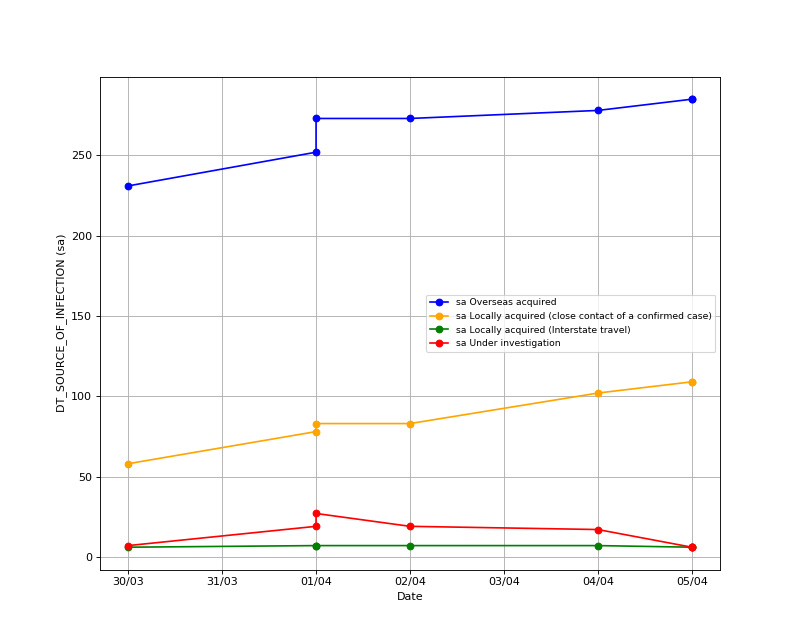
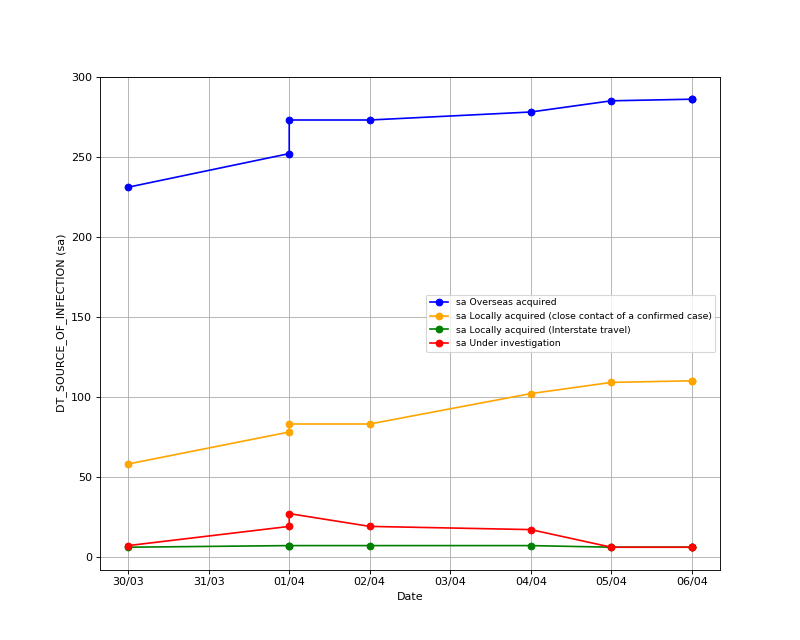
combined status constants for various files into DT_PATIENT_STATUS+updated graphs

diff --git a/state_news_releases/VicNews.py b/state_news_releases/VicNews.py
@@ -8,7 +8,7 @@ from covid_19_au_grab.state_news_releases.constants import \
     DT_CASES_BY_REGION, DT_NEW_CASES_BY_REGION, \
     DT_MALE, DT_FEMALE, \
     DT_SOURCE_OF_INFECTION, \
-    DT_DEATHS, DT_HOSPITALIZED, DT_ICU, DT_RECOVERED
+    DT_PATIENT_STATUS
 from covid_19_au_grab.state_news_releases.data_containers.DataPoint import \
     DataPoint
 from covid_19_au_grab.state_news_releases.vic_powerbi import \
@@ -284,8 +284,9 @@ class VicNews(StateNewsBase):
         deaths = self._extract_number_using_regex(
             compile('([0-9,]+) (?:deaths|people have(?: already)? died)'),
             c_html,
+            name='Deaths',
             source_url=href,
-            datatype=DT_DEATHS,
+            datatype=DT_PATIENT_STATUS,
             date_updated=self._get_date(href, html)
         )
         if deaths:
@@ -294,8 +295,9 @@ class VicNews(StateNewsBase):
         in_hospital = self._extract_number_using_regex(
             compile('([0-9,]+) people are in hospital'),
             c_html,
+            name='Hospitalized',
             source_url=href,
-            datatype=DT_HOSPITALIZED,
+            datatype=DT_PATIENT_STATUS,
             date_updated=self._get_date(href, html)
         )
         if in_hospital:
@@ -304,8 +306,9 @@ class VicNews(StateNewsBase):
         in_icu = self._extract_number_using_regex(
             compile('([0-9,]+) patients? in intensive care'),
             c_html,
+            name='ICU',
             source_url=href,
-            datatype=DT_ICU,
+            datatype=DT_PATIENT_STATUS,
             date_updated=self._get_date(href, html)
         )
         if in_icu:
@@ -314,8 +317,9 @@ class VicNews(StateNewsBase):
         recovered = self._extract_number_using_regex(
             compile('([0-9,]+) people have recovered'),
             c_html,
+            name='Recovered',
             source_url=href,
-            datatype=DT_RECOVERED,
+            datatype=DT_PATIENT_STATUS,
             date_updated=self._get_date(href, html)
         )
         if recovered:

diff --git a/state_news_releases/NSWNews.py b/state_news_releases/NSWNews.py
@@ -8,7 +8,7 @@ from covid_19_au_grab.state_news_releases.StateNewsBase import \
 from covid_19_au_grab.state_news_releases.constants import \
     DT_CASES_TESTED, DT_NEW_CASES, DT_CASES, \
     DT_AGE, DT_AGE_MALE, DT_AGE_FEMALE, \
-    DT_ICU, DT_ICU_VENTILATORS, DT_HOSPITALIZED, DT_DEATHS, \
+    DT_PATIENT_STATUS, \
     DT_SOURCE_OF_INFECTION, DT_CASES_BY_REGION
 from covid_19_au_grab.word_to_number import word_to_number
 
@@ -323,8 +323,9 @@ class NSWNews(StateNewsBase):
                 IGNORECASE
             ),
             c_html,
+            name='Hospitalized',
             source_url=href,
-            datatype=DT_HOSPITALIZED,
+            datatype=DT_PATIENT_STATUS,
             date_updated=self._get_date(href, html)
         )
         if hospitalized:
@@ -337,8 +338,9 @@ class NSWNews(StateNewsBase):
                 IGNORECASE
             ),
             c_html,
+            name='ICU',
             source_url=href,
-            datatype=DT_ICU,
+            datatype=DT_PATIENT_STATUS,
             date_updated=self._get_date(href, html)
         )
         if icu:
@@ -350,8 +352,9 @@ class NSWNews(StateNewsBase):
                 IGNORECASE
             ),
             c_html,
+            name='ICU needing ventilators',
             source_url=href,
-            datatype=DT_ICU_VENTILATORS,
+            datatype=DT_PATIENT_STATUS,
             date_updated=self._get_date(href, html)
         )
         if ventilators:
@@ -370,8 +373,9 @@ class NSWNews(StateNewsBase):
                         IGNORECASE),
             ),
             html,
+            name='Deaths',
             source_url=href,
-            datatype=DT_DEATHS,
+            datatype=DT_PATIENT_STATUS,
             date_updated=self._get_date(href, html)
         )
         if deaths:

diff --git a/state_news_releases/SANews.py b/state_news_releases/SANews.py
@@ -5,7 +5,7 @@ from covid_19_au_grab.state_news_releases.StateNewsBase import \
     StateNewsBase, bothlistingandstat, singledaystat
 from covid_19_au_grab.state_news_releases.constants import \
     DT_CASES, DT_NEW_CASES, DT_CASES_TESTED, \
-    DT_DEATHS, DT_ICU, DT_SOURCE_OF_INFECTION, \
+    DT_PATIENT_STATUS, DT_SOURCE_OF_INFECTION, \
     DT_AGE, DT_AGE_MALE, DT_AGE_FEMALE
 from covid_19_au_grab.state_news_releases.data_containers.DataPoint import \
     DataPoint
@@ -259,8 +259,8 @@ class SANews(StateNewsBase):
 
         if c_icu is not None:
             r.append(DataPoint(
-                name=None,
-                datatype=DT_ICU,
+                name='ICU',
+                datatype=DT_PATIENT_STATUS,
                 value=c_icu,
                 date_updated=self._get_date(href, html),
                 source_url=href,
@@ -272,8 +272,8 @@ class SANews(StateNewsBase):
         t_d = int(pq(tr[1]).text().strip())
         if t_d is not None:
             r.append(DataPoint(
-                name=None,
-                datatype=DT_DEATHS,
+                name='Deaths',
+                datatype=DT_PATIENT_STATUS,
                 value=t_d,
                 date_updated=self._get_date(href, html),
                 source_url=href,

diff --git a/state_news_releases/WANews.py b/state_news_releases/WANews.py
@@ -8,7 +8,7 @@ from covid_19_au_grab.state_news_releases.constants import \
     DT_SOURCE_OF_INFECTION, \
     DT_NEW_CASES_BY_REGION, DT_CASES_BY_REGION, DT_NEW_CASES, \
     DT_NEW_MALE, DT_NEW_FEMALE, \
-    DT_RECOVERED, DT_DEATHS
+    DT_PATIENT_STATUS
 from covid_19_au_grab.state_news_releases.data_containers.DataPoint import \
     DataPoint
 from covid_19_au_grab.word_to_number import word_to_number
@@ -408,8 +408,9 @@ class WANews(StateNewsBase):
                 MULTILINE | DOTALL
             ),
             c_html,
+            name='Recovered',
             source_url=href,
-            datatype=DT_RECOVERED,
+            datatype=DT_PATIENT_STATUS,
             date_updated=self._get_date(href, html)
         )
         if recovered:
@@ -422,8 +423,9 @@ class WANews(StateNewsBase):
                 MULTILINE | DOTALL
             ),
             c_html,
+            name='Deaths',
             source_url=href,
-            datatype=DT_DEATHS,
+            datatype=DT_PATIENT_STATUS,
             date_updated=self._get_date(href, html)
         )
         if deaths:

diff --git a/state_news_releases/ACTNews.py b/state_news_releases/ACTNews.py
@@ -8,7 +8,7 @@ from covid_19_au_grab.state_news_releases.constants import \
     DT_NEW_MALE, DT_NEW_FEMALE, \
     DT_FEMALE, DT_MALE, \
     DT_SOURCE_OF_INFECTION, \
-    DT_HOSPITALIZED, DT_RECOVERED, \
+    DT_PATIENT_STATUS, \
     DT_AGE
 from covid_19_au_grab.state_news_releases.data_containers.DataPoint import \
     DataPoint
@@ -299,15 +299,17 @@ class ACTNews(StateNewsBase):
         patients = self._extract_number_using_regex(
             compile(r'([0-9,]+)\)? COVID-19 patients'),
             c_html,
+            name='Hospitalized',
             source_url=href,
-            datatype=DT_HOSPITALIZED,
+            datatype=DT_PATIENT_STATUS,
             date_updated=self._get_date(href, html)
         )
         recovered = self._extract_number_using_regex(
             compile(r'([0-9,]+)\)? cases have recovered'),
             c_html,
+            name='Recovered',
             source_url=href,
-            datatype=DT_RECOVERED,
+            datatype=DT_PATIENT_STATUS,
             date_updated=self._get_date(href, html)
         )
 

diff --git a/output_graphs/output_graphs.py b/output_graphs/output_graphs.py
@@ -154,9 +154,6 @@ def output_graphs():
     output_graph('DT_AGE_MALE', state_filter='nsw')
     output_graph('DT_AGE_FEMALE', state_filter='nsw')
     output_graph('DT_AGE', state_filter='act')
-    output_graph('DT_HOSPITALIZED')
-    output_graph('DT_RECOVERED')
-    # output_graph('DT_ICU')
     output_graph('DT_CASES_BY_REGION', state_filter='vic',
                  name_filter=lambda p: p[0].lower() < 'm',
                  append_to_name='a-l')
@@ -178,7 +175,10 @@ def output_graphs():
     output_graph('DT_SOURCE_OF_INFECTION', state_filter='vic')
     output_graph('DT_SOURCE_OF_INFECTION', state_filter='nsw')
     output_graph('DT_SOURCE_OF_INFECTION', state_filter='act')
-    output_graph('DT_DEATHS')
+    output_graph('DT_PATIENT_STATUS', state_filter='sa')
+    output_graph('DT_PATIENT_STATUS', state_filter='act')
+    output_graph('DT_PATIENT_STATUS', state_filter='nsw')
+    output_graph('DT_PATIENT_STATUS', state_filter='wa')
 
 
 if __name__ == '__main__':

diff --git a/state_news_releases/constants.py b/state_news_releases/constants.py
@@ -10,26 +10,27 @@ DT_CASES_BY_REGION = 3
 DT_NEW_CASES_BY_REGION = 4
 
 # Patient status
-DT_DEATHS = 5
-DT_HOSPITALIZED = 6
-DT_ICU = 7
-DT_ICU_VENTILATORS = 8
-DT_RECOVERED = 9
+DT_PATIENT_STATUS = 5
+#DT_DEATHS = 5
+#DT_HOSPITALIZED = 6
+#DT_ICU = 7
+#DT_ICU_VENTILATORS = 8
+#DT_RECOVERED = 9
 
 # Male/female cases
-DT_MALE = 10
-DT_FEMALE = 11
-DT_NEW_MALE = 12
-DT_NEW_FEMALE = 13
+DT_MALE = 6
+DT_FEMALE = 7
+DT_NEW_MALE = 8
+DT_NEW_FEMALE = 9
 
 # Source of infection
-DT_SOURCE_OF_INFECTION = 14
-DT_NEW_SOURCE_OF_INFECTION = 15
+DT_SOURCE_OF_INFECTION = 10
+DT_NEW_SOURCE_OF_INFECTION = 11
 
 # Age breakdowns
-DT_AGE = 16  # Gender non-specific
-DT_AGE_MALE = 17
-DT_AGE_FEMALE = 18
+DT_AGE = 12  # Gender non-specific
+DT_AGE_MALE = 13
+DT_AGE_FEMALE = 14
 
 
 def constant_to_name(x):
